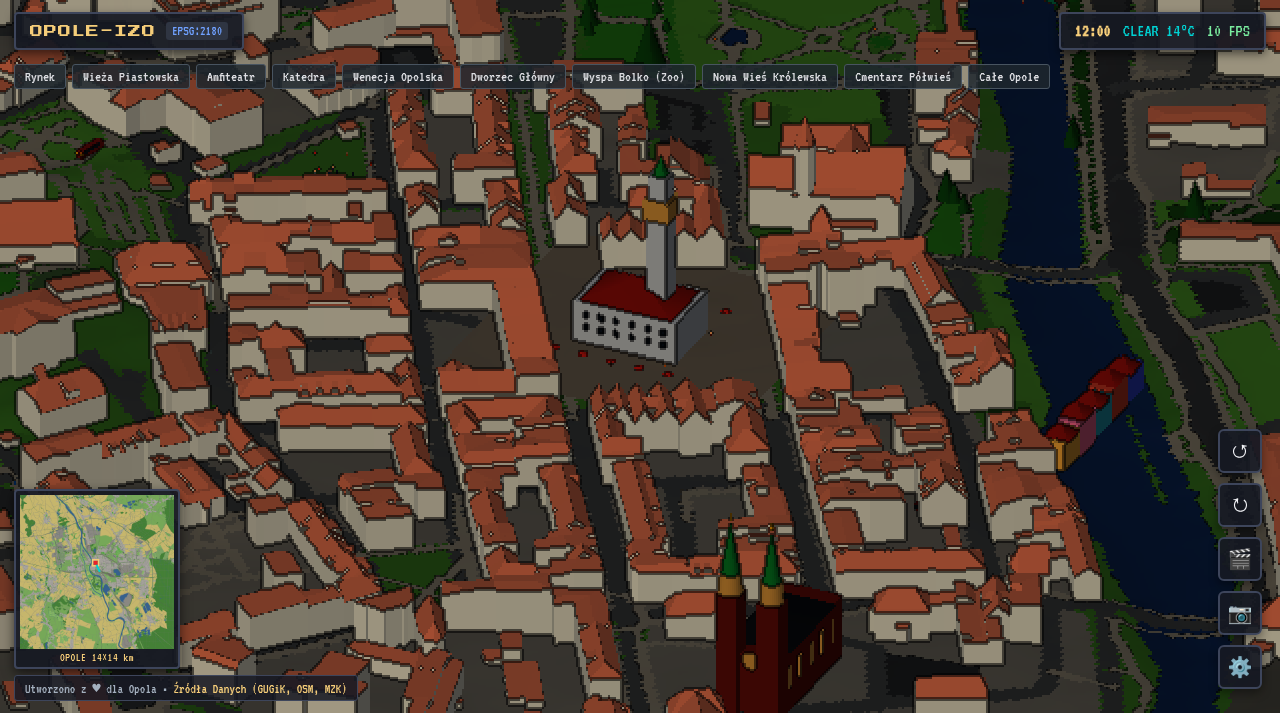
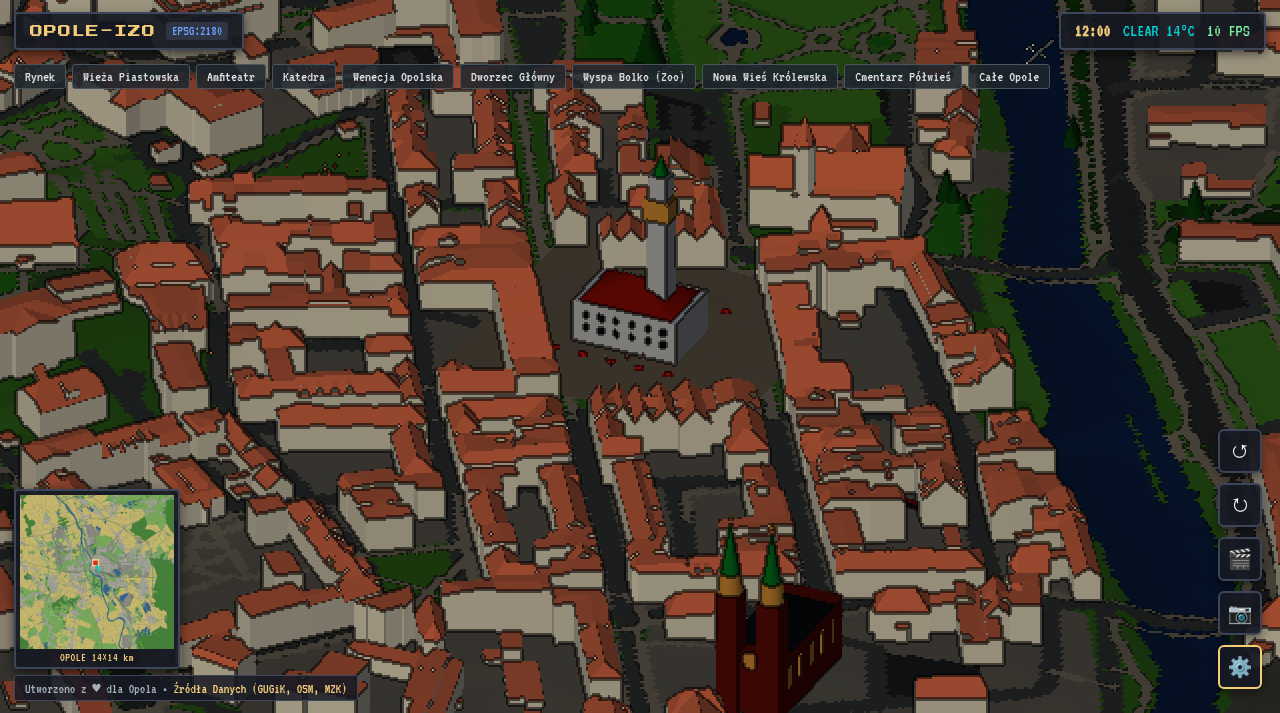
Remove duplicate synthetic Opolska Wenecja houses from Kanał Młynówka & align Amfiteatr/Most Groszowy

diff --git a/web/src/landmarks/landmarks_manager.js b/web/src/landmarks/landmarks_manager.js
@@ -66,7 +66,6 @@ export class LandmarksManager {
     this.buildAmfiteatr();
     this.buildKatedra();
     this.buildMostGroszowy();
-    this.buildOpolskaWenecja();
     this.buildDworzecGlowny();
     this.buildSolarisCenter();
   }
@@ -171,10 +170,10 @@ export class LandmarksManager {
     this.landmarksGroup.add(group);
   }
 
-  // 3. Amfiteatr Tysiąclecia (Next to Wieża Piastowska: x = -365, z = -90)
+  // 3. Amfiteatr Tysiąclecia (Next to Wieża Piastowska: x = -395, z = -70)
   buildAmfiteatr() {
     const group = new THREE.Group();
-    group.position.set(-365, 4.0, -90);
+    group.position.set(-395, 4.0, -70);
 
     const bowl = new THREE.Mesh(
       new THREE.CylinderGeometry(36, 18, 6, 24, 1, true, 0, Math.PI * 1.3),
@@ -269,13 +268,13 @@ export class LandmarksManager {
     this.landmarksGroup.add(group);
   }
 
-  // 5. Most Groszowy / Most Zielony (Real coords: x = -101, z = 92)
+  // 5. Most Groszowy / Most Zielony (Real OSM span: (-118.3, 101.7) to (-83.0, 82.0))
   buildMostGroszowy() {
     const group = new THREE.Group();
     group.position.set(-101, 2.0, 92);
-    group.rotation.y = Math.PI * 0.42; // Spans East-West across Kanał Młynówka
+    group.rotation.y = Math.atan2(35.3, -19.7); // Exact alignment across Kanał Młynówka
 
-    const deck = new THREE.Mesh(new THREE.BoxGeometry(5.5, 0.6, 38), this.materials.wood);
+    const deck = new THREE.Mesh(new THREE.BoxGeometry(5.5, 0.6, 40), this.materials.wood);
     deck.position.y = 2.5;
     group.add(deck);
 
@@ -317,42 +316,6 @@ export class LandmarksManager {
     }
 
     this.groups.groszowy = group;
-    this.landmarksGroup.add(group);
-  }
-
-  // 6. Opolska Wenecja (Canal waterfront along Młynówka: x = -251, z = -174)
-  buildOpolskaWenecja() {
-    const group = new THREE.Group();
-    group.position.set(-251, 3.0, -174);
-
-    const quayWall = new THREE.Mesh(new THREE.BoxGeometry(3, 4, 72), this.materials.stone);
-    quayWall.position.set(4, 1.5, 0);
-    group.add(quayWall);
-
-    const wenecjaColors = [0xf5cd79, 0xf8a5c2, 0x63cdda, 0xe77f67, 0x778beb];
-    for (let i = 0; i < 5; i++) {
-      const hMat = new THREE.MeshLambertMaterial({ color: wenecjaColors[i] });
-      const house = new THREE.Mesh(new THREE.BoxGeometry(9, 11 + (i % 2) * 2, 13), hMat);
-      house.position.set(-2, 6, -26 + i * 13);
-      group.add(house);
-
-      // Warm waterfront house windows facing Młynówka canal
-      for (const wy of [4.5, 8.5]) {
-        for (const wzOff of [-3.2, 3.2]) {
-          const wMesh = new THREE.Mesh(new THREE.BoxGeometry(0.2, 1.8, 1.5), this.materials.winWarm);
-          wMesh.position.set(2.55, wy, -26 + i * 13 + wzOff);
-          group.add(wMesh);
-        }
-      }
-
-      const rGeom = new THREE.ConeGeometry(7.2, 4.5, 4);
-      rGeom.rotateY(Math.PI / 4);
-      const rMesh = new THREE.Mesh(rGeom, this.materials.terracotta);
-      rMesh.position.set(-2, 13.5 + (i % 2) * 2, -26 + i * 13);
-      group.add(rMesh);
-    }
-
-    this.groups.wenecja = group;
     this.landmarksGroup.add(group);
   }
 

diff --git a/web/src/ui/poi_tour.js b/web/src/ui/poi_tour.js
@@ -8,9 +8,9 @@ import * as THREE from 'three';
 export const POI_LOCATIONS = {
   rynek: { name: "Rynek i Ratusz", x: -88, z: -195, mpt: 0.35, azimuth: 205 },
   wieza: { name: "Wieża Piastowska", x: -300, z: -62, mpt: 0.30, azimuth: 160 },
-  amfiteatr: { name: "Amfiteatr Tysiąclecia", x: -365, z: -90, mpt: 0.38, azimuth: 190 },
+  amfiteatr: { name: "Amfiteatr Tysiąclecia", x: -395, z: -70, mpt: 0.38, azimuth: 190 },
   katedra: { name: "Katedra Świętego Krzyża", x: -234, z: -390, mpt: 0.32, azimuth: 220 },
-  wenecja: { name: "Opolska Wenecja", x: -251, z: -174, mpt: 0.28, azimuth: 135 },
+  wenecja: { name: "Opolska Wenecja", x: -235, z: -200, mpt: 0.28, azimuth: 135 },
   groszowy: { name: "Most Groszowy (Zielony)", x: -101, z: 92, mpt: 0.28, azimuth: 150 },
   dworzec: { name: "Dworzec Opole Główne", x: 199, z: 563, mpt: 0.36, azimuth: 210 },
   solaris: { name: "Solaris & Plac Kopernika", x: 191, z: -364, mpt: 0.35, azimuth: 225 },
